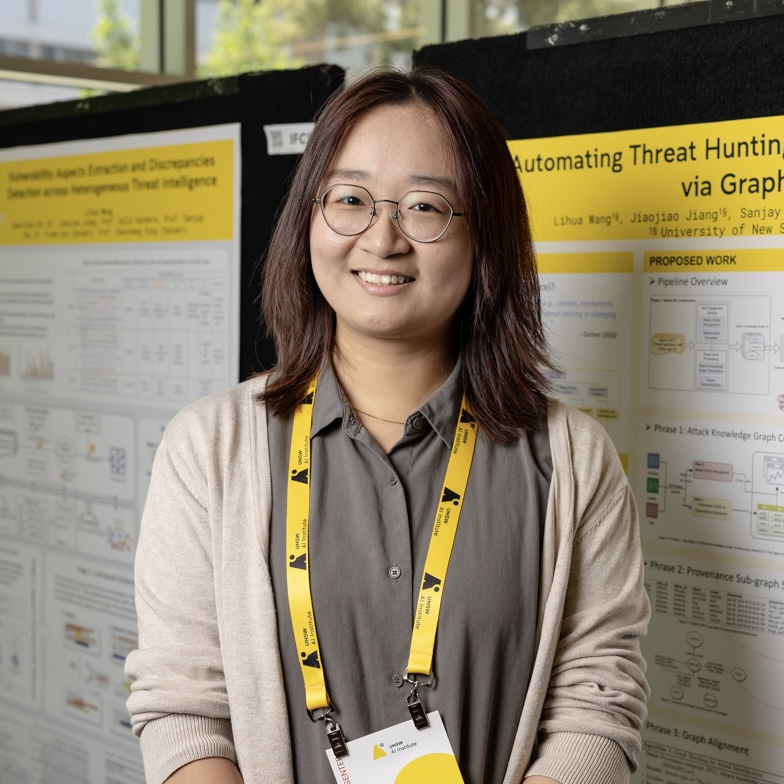
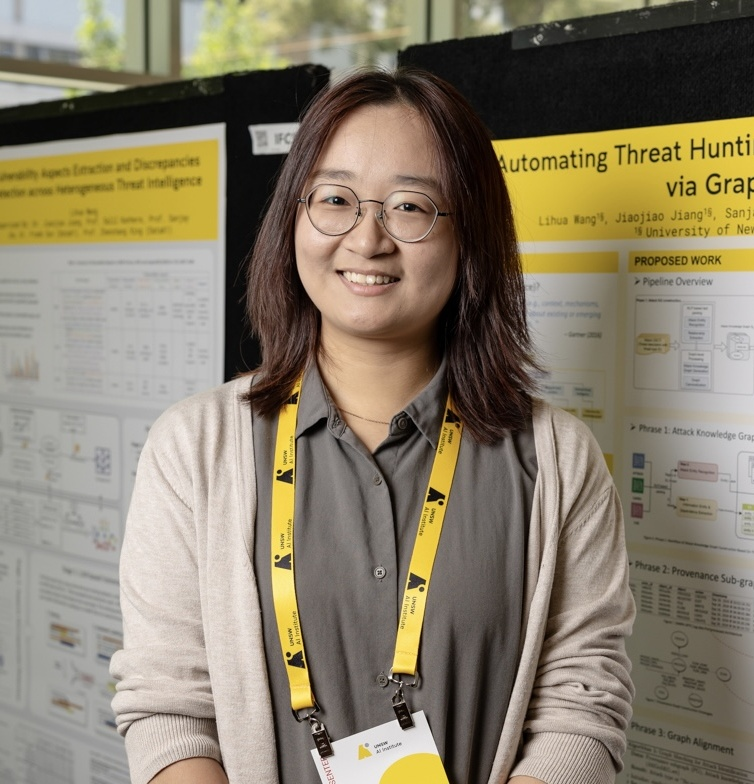
_

diff --git a/pages/team.html b/pages/team.html
@@ -172,7 +172,7 @@ M.Phil Student, CSE<br>
 <a href="https://www.researchgate.net/profile/Xinzhang-Chen" target="_blank"><img src="../documents/icons/research_gate.png" align="center" width="25" height="25"></a> 
 </p></div>
 <div class="column32"style="width=25.0%; background-color:white;"><p class="text" align="center">
-<a href="https://scholar.google.com/citations?user=t-6t_XYAAAAJ&hl=en" target="_blank"><img src="../documents/photos/lihua_wang.jpeg" align="center" width="200" height="208"></a><br><br>
+<a href="https://scholar.google.com/citations?user=t-6t_XYAAAAJ&hl=en" target="_blank"><img src="../documents/photos/lihua_wang.jpg" align="center" width="200" height="208"></a><br><br>
 <a href="https://scholar.google.com/citations?user=t-6t_XYAAAAJ&hl=en">Lihua Wang</a><br>
 Ph.D. Candidate, CSE<br>
 <a href="https://orcid.org/0009-0002-0140-4085" target="_blank"><img src="../documents/icons/orcid.png" align="center" width="25" height="25"></a> 
